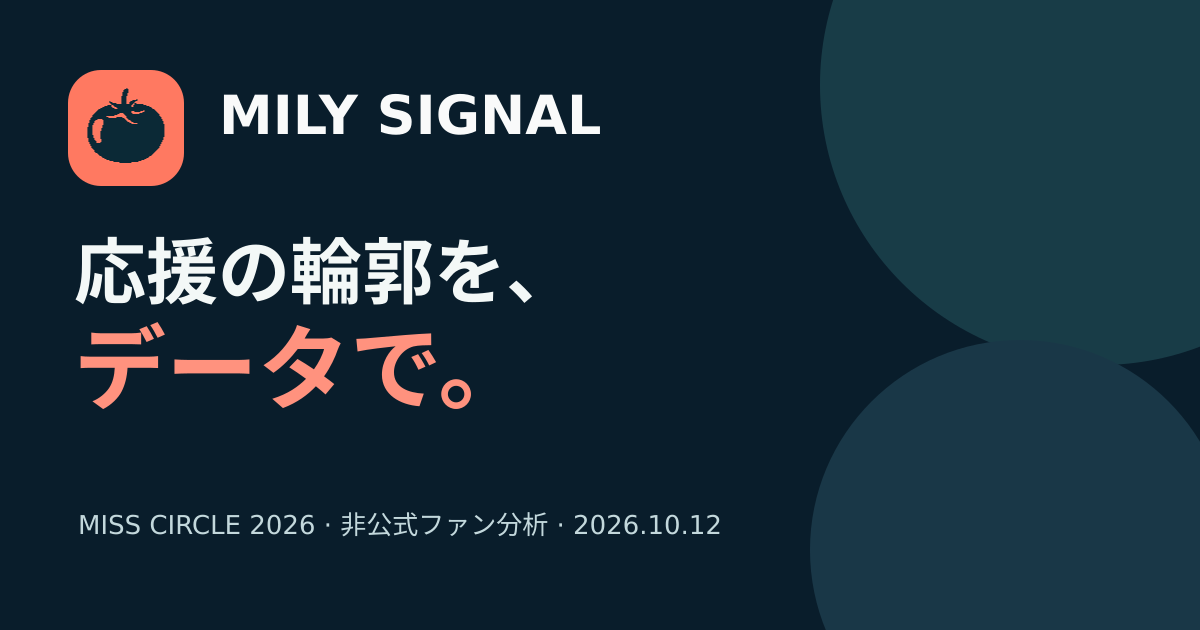
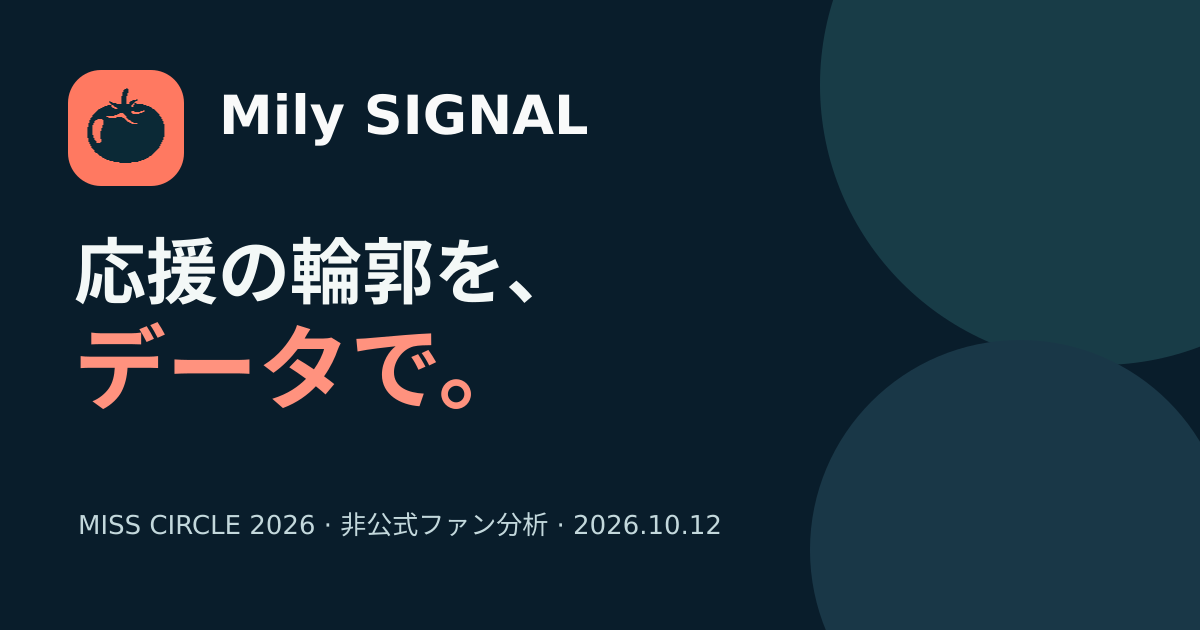
fix: use approved Mily casing for social sharing

Changed region(s): [[0.2158, 0.1508, 0.4933, 0.2413]]

diff --git a/data-lab/index.html b/data-lab/index.html
@@ -14,19 +14,19 @@
 <meta property="og:type" content="website">
 <meta property="og:locale" content="ja_JP">
 <meta property="og:site_name" content="みりぃ ファンサイト">
-<meta property="og:title" content="MILY SIGNAL｜みりぃデータラボ（非公式ファンデータ分析）">
+<meta property="og:title" content="Mily SIGNAL｜みりぃデータラボ（非公式ファンデータ分析）">
 <meta property="og:description" content="MISS CIRCLE CONTEST 2026 四次審査の公開データから、SHOWROOM順位と外部予測を読み解く非公式ファンデータラボ。">
 <meta property="og:url" content="__DATA_LAB_CANONICAL__">
 <meta property="og:image" content="__DATA_LAB_OG_IMAGE__">
 <meta property="og:image:type" content="image/png">
 <meta property="og:image:width" content="1200">
 <meta property="og:image:height" content="630">
-<meta property="og:image:alt" content="MILY SIGNAL — 応援の輪郭を、データで。非公式ファン分析">
+<meta property="og:image:alt" content="Mily SIGNAL — 応援の輪郭を、データで。非公式ファン分析">
 <meta name="twitter:card" content="summary_large_image">
-<meta name="twitter:title" content="MILY SIGNAL｜みりぃデータラボ（非公式ファンデータ分析）">
+<meta name="twitter:title" content="Mily SIGNAL｜みりぃデータラボ（非公式ファンデータ分析）">
 <meta name="twitter:description" content="MISS CIRCLE CONTEST 2026 四次審査の公開データから、SHOWROOM順位と外部予測を読み解く非公式ファンデータラボ。">
 <meta name="twitter:image" content="__DATA_LAB_OG_IMAGE__">
-<meta name="twitter:image:alt" content="MILY SIGNAL — 応援の輪郭を、データで。非公式ファン分析">
+<meta name="twitter:image:alt" content="Mily SIGNAL — 応援の輪郭を、データで。非公式ファン分析">
 <link rel="icon" href="/data-lab/assets/favicon.svg" type="image/svg+xml">
 <link rel="stylesheet" href="/data-lab/assets/styles.css">
 <script src="/data-lab/assets/data.js" defer></script>
